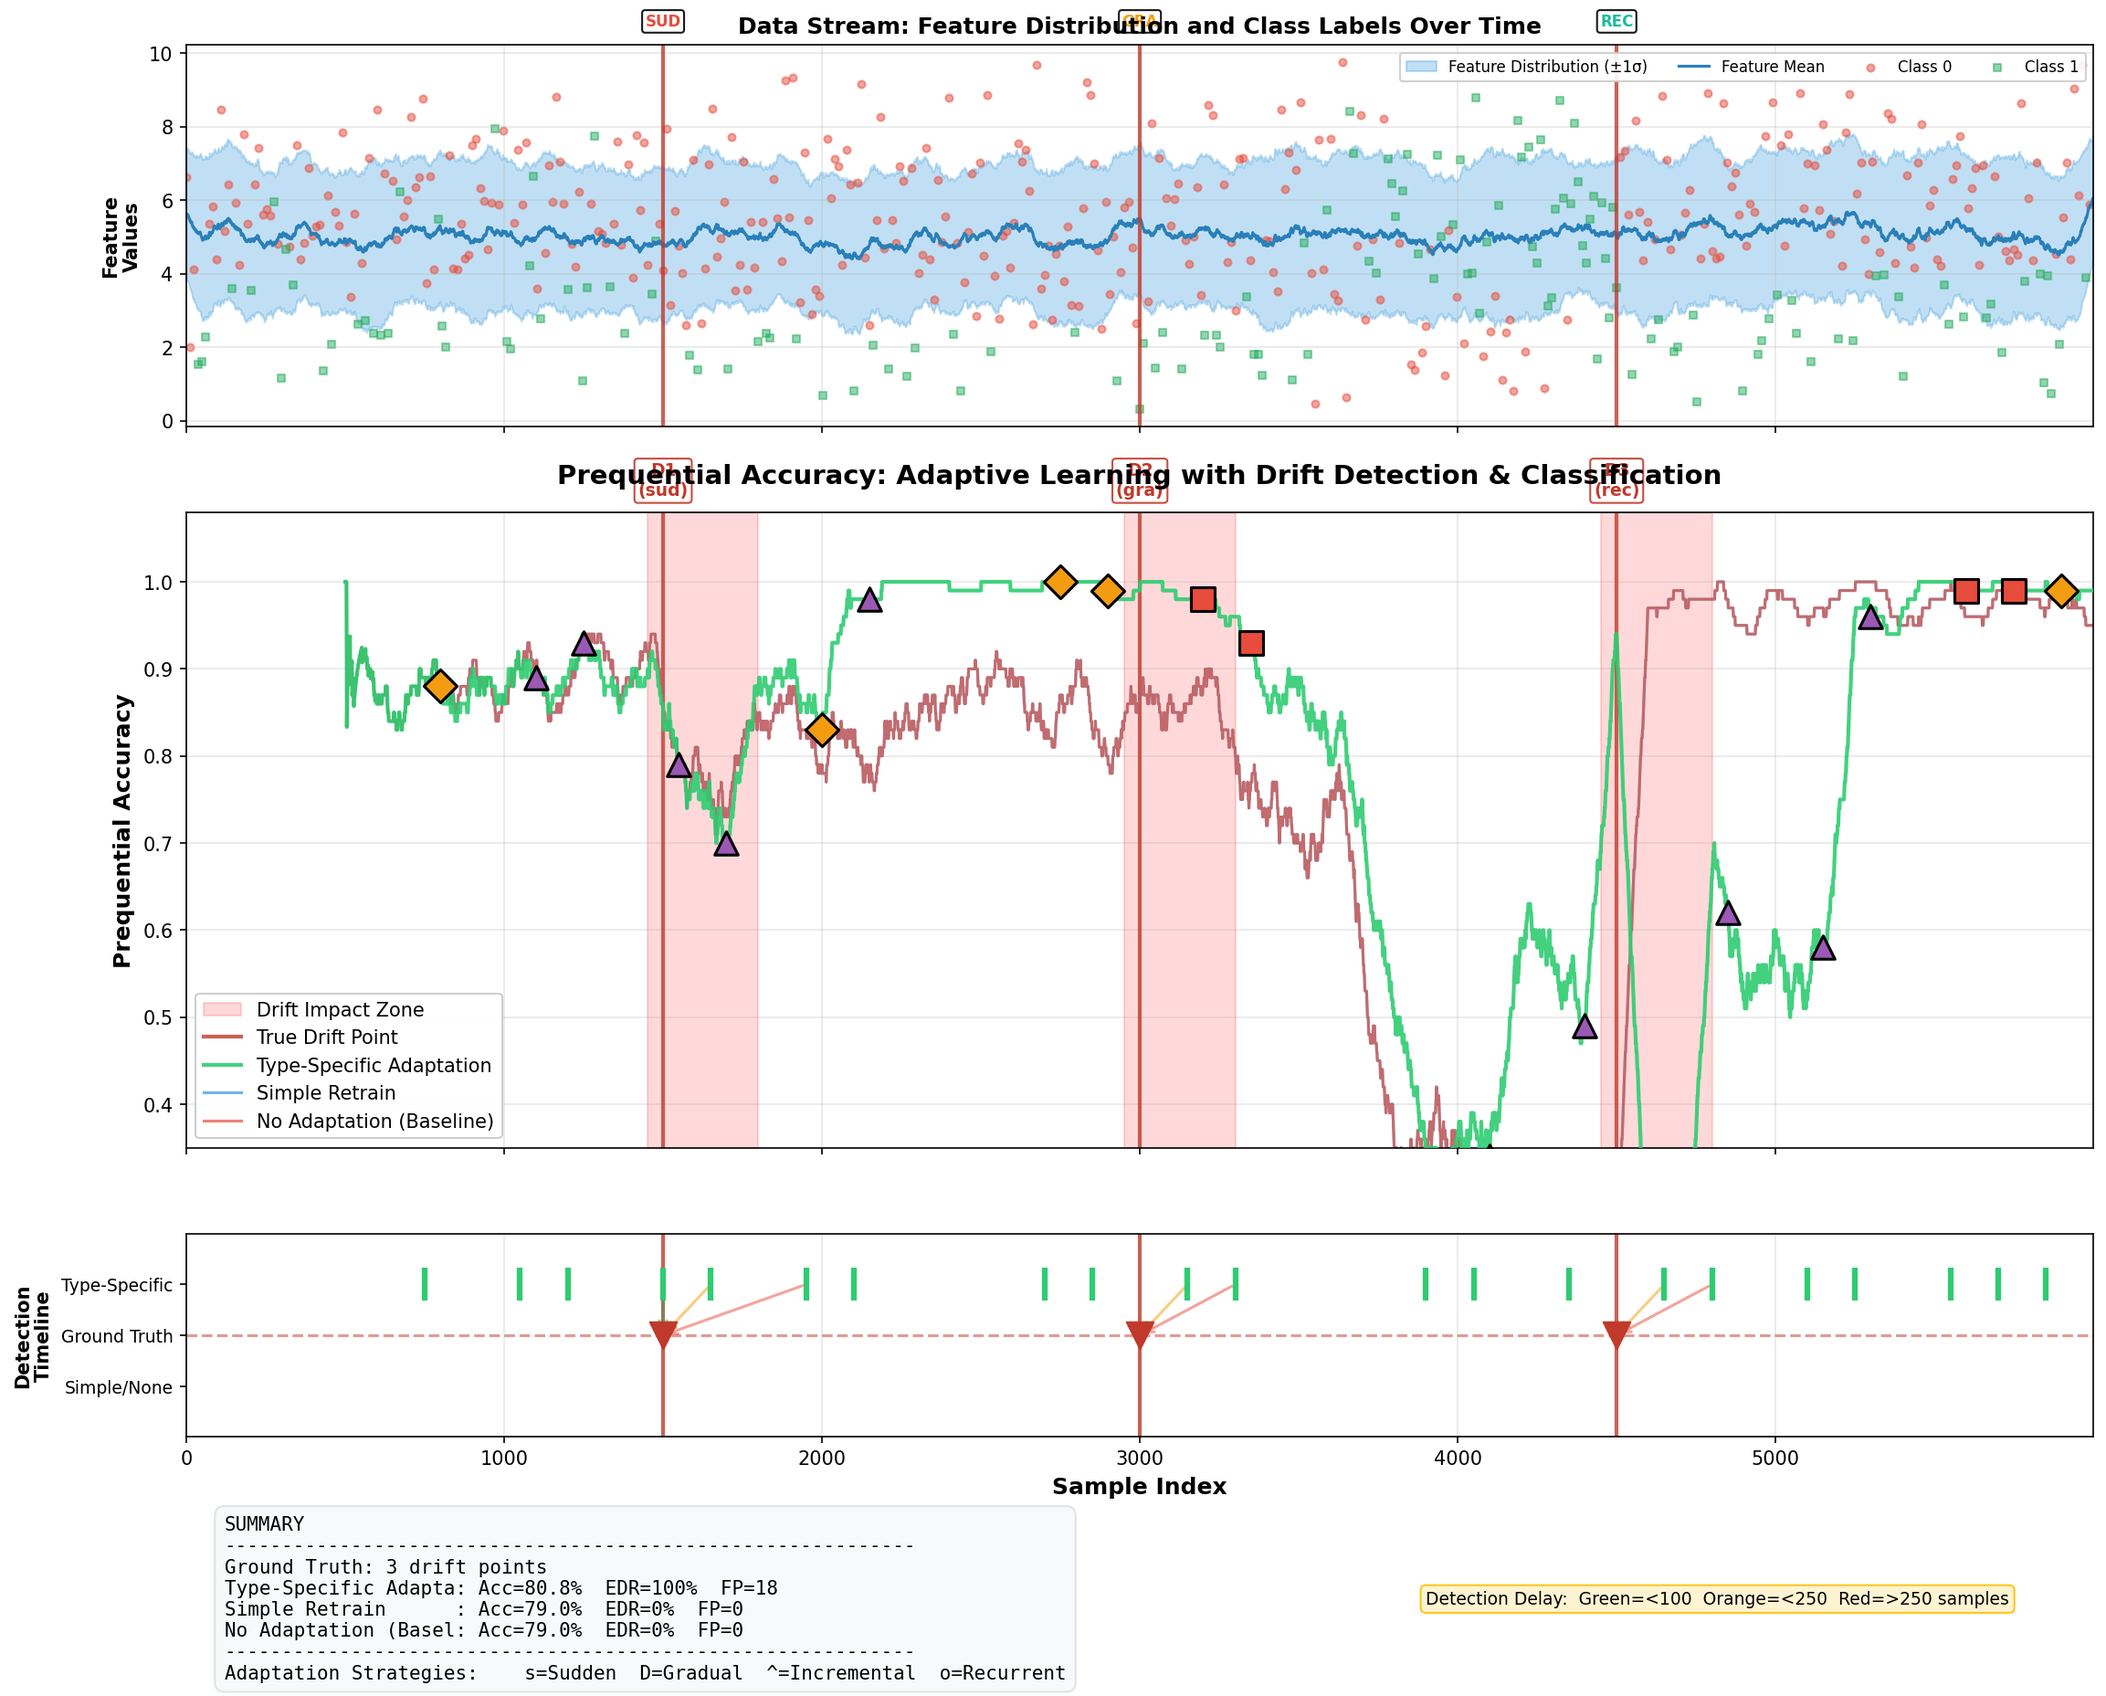
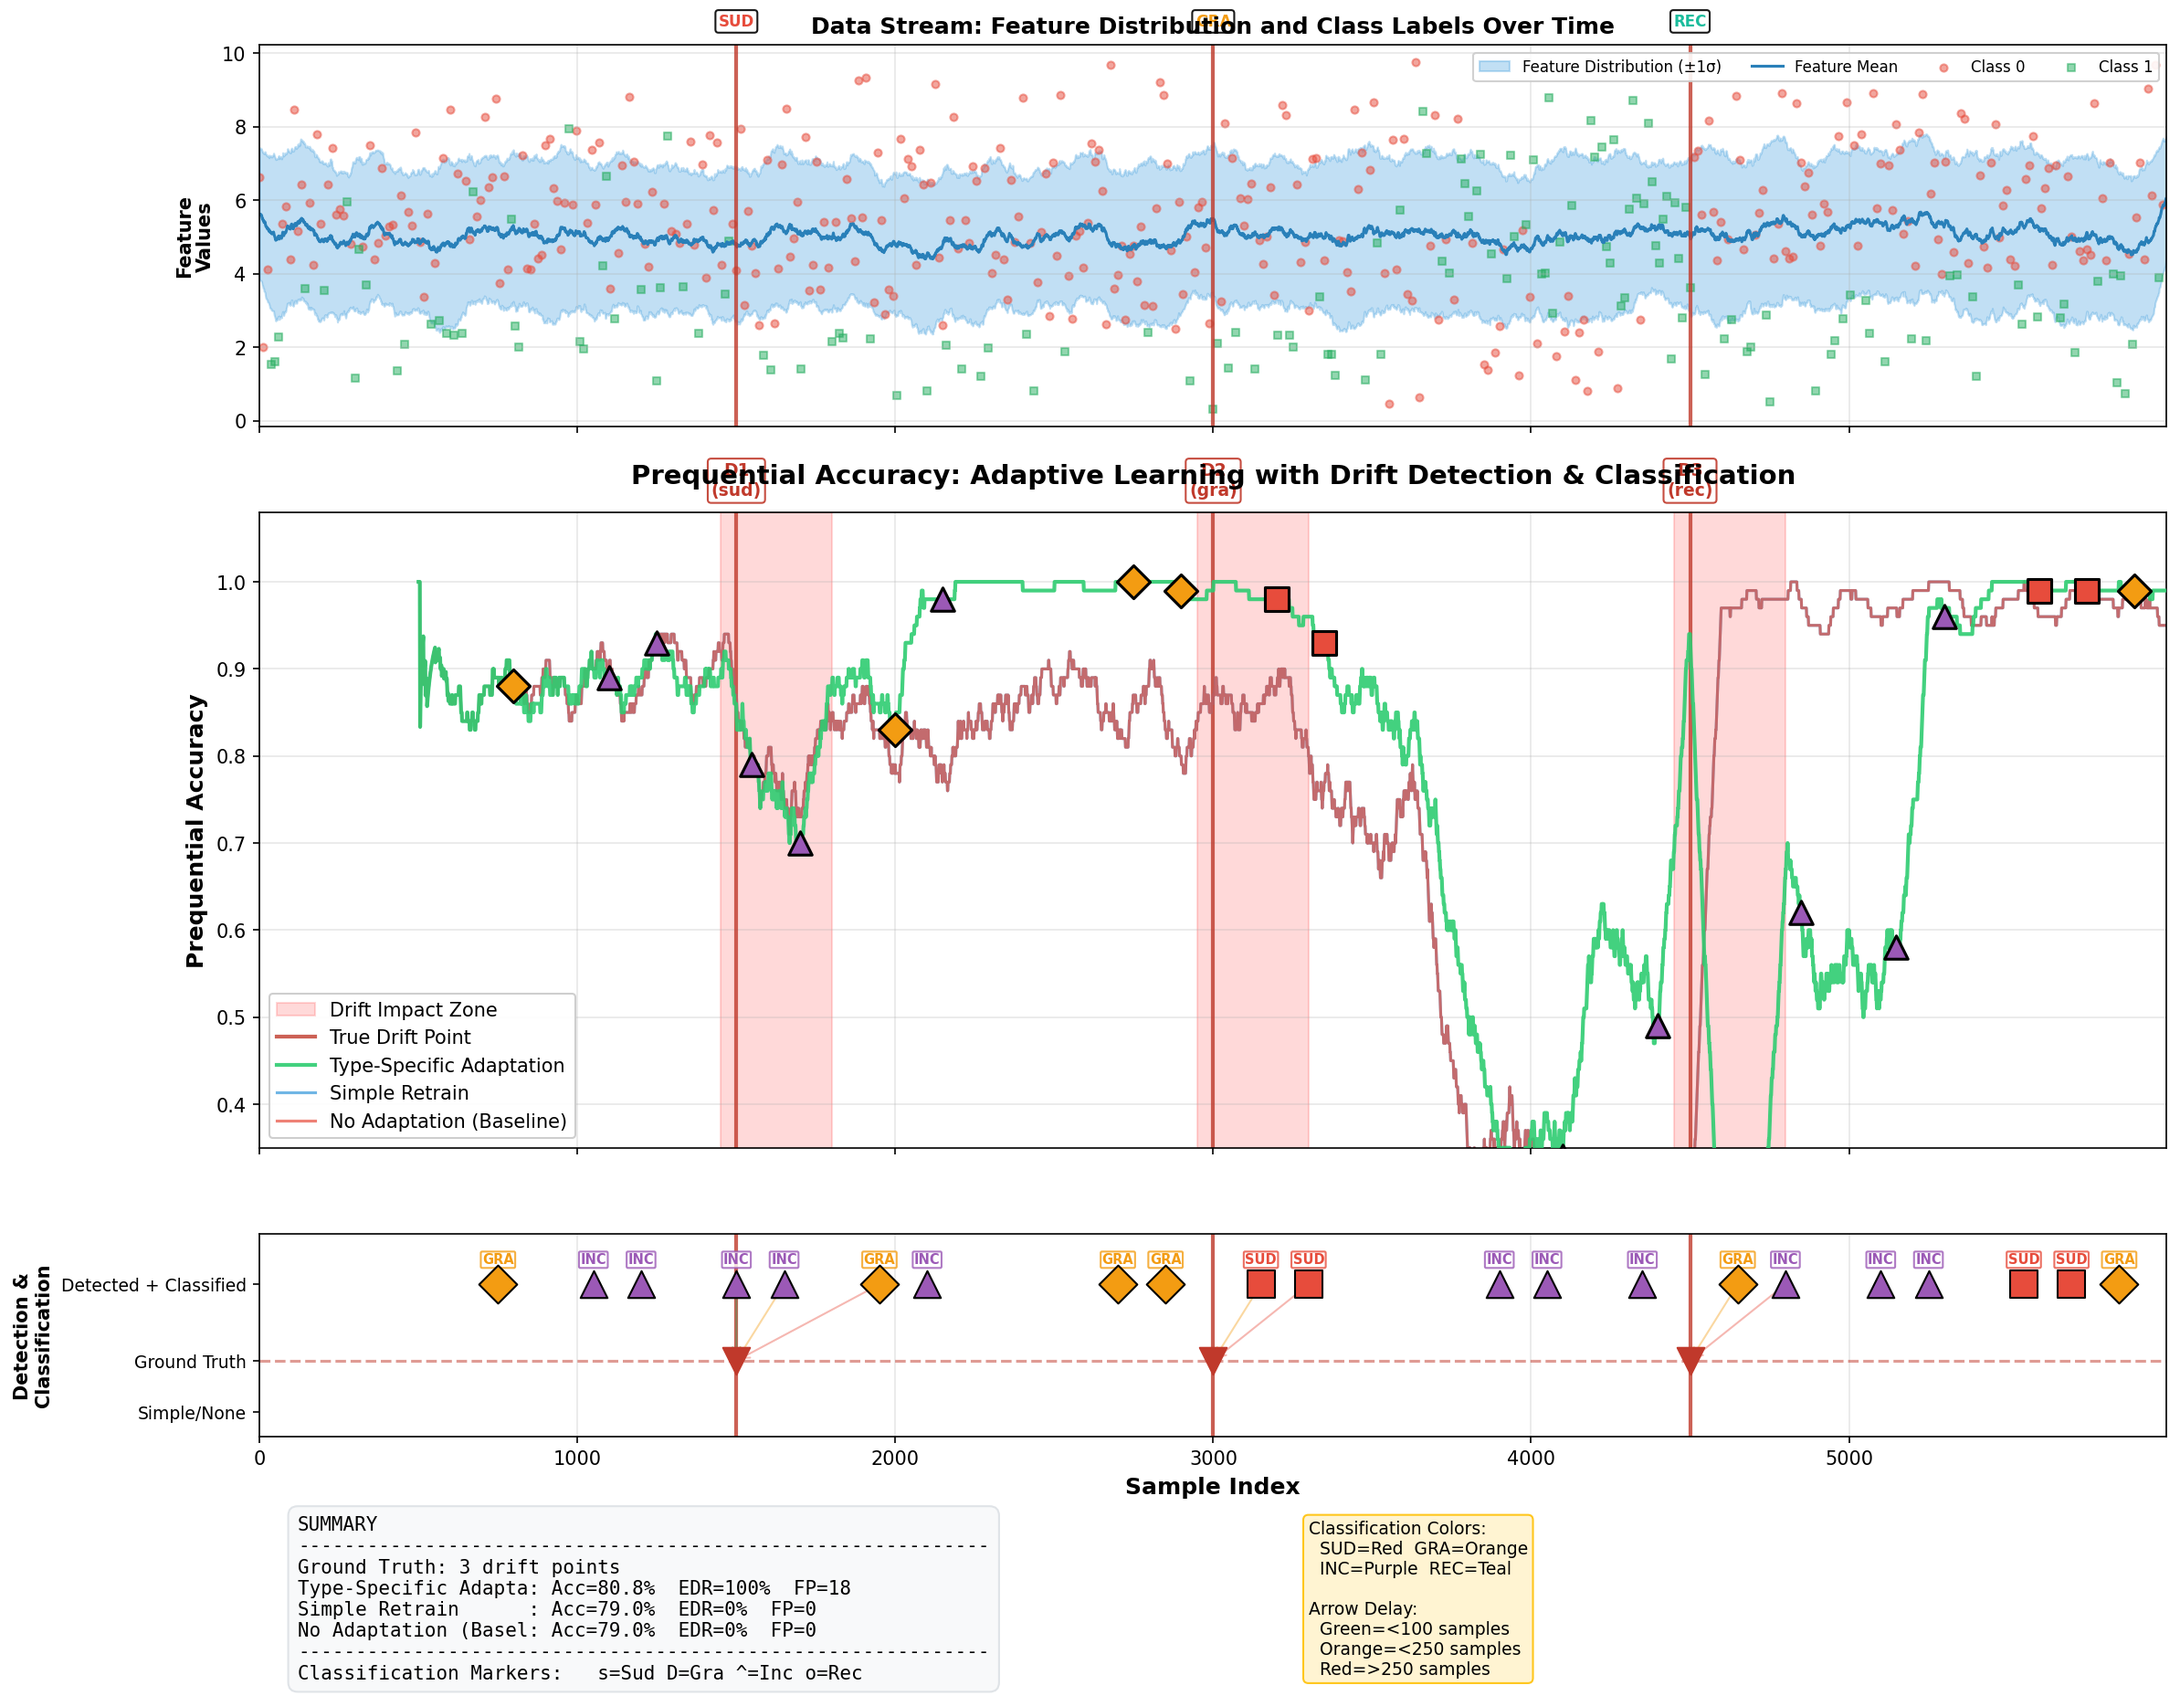
Add classification type

diff --git a/experiments/drift_monitoring_system/evaluate_prequential.py b/experiments/drift_monitoring_system/evaluate_prequential.py
@@ -77,7 +77,16 @@ except ImportError:
     # Fallback if shared module not available
     def calculate_detection_metrics(detections, ground_truth, tolerance=250, early_tolerance=50):
         """Fallback implementation."""
-        det_pos = [d if isinstance(d, int) else d['pos'] for d in detections] if detections else []
+        # Handle both old format (int) and new format (dict with 'idx')
+        det_pos = []
+        for d in (detections if detections else []):
+            if isinstance(d, int):
+                det_pos.append(d)
+            elif isinstance(d, dict):
+                det_pos.append(d.get('idx', d.get('pos', 0)))
+            else:
+                det_pos.append(d)
+        
         gt_pos = ground_truth if ground_truth else []
         tp, fp, delays = 0, 0, []
         detected = set()
@@ -223,12 +232,18 @@ def evaluate_with_adaptation(X, y, drift_points, mode: str = AdaptationMode.TYPE
                     
                     if result.is_drift:
                         drift_detected = True
-                        drift_detections.append(idx)
                         classification_times.append(result.classification_time)
                         
                         # Use classified drift type immediately
                         detected_drift_type = result.subcategory
                         print(f"    [{mode}] Drift detected at sample {idx} (Score={result.score:.4f}, Type={detected_drift_type})")
+                        
+                        # Store BOTH detection position AND classified type
+                        drift_detections.append({
+                            'idx': idx,
+                            'score': result.score,
+                            'classified_type': detected_drift_type
+                        })
                         
                         # Store result for adaptation step logic
                         current_drift_type = detected_drift_type
@@ -497,9 +512,27 @@ def plot_prequential_comparison(results: Dict[str, Dict], drift_points: List[int
     
     # Plot detections for each mode
     y_positions = {
-        AdaptationMode.TYPE_SPECIFIC: 1,
+        AdaptationMode.TYPE_SPECIFIC: 1.5,
         AdaptationMode.SIMPLE: 0,
         AdaptationMode.NONE: -1
+    }
+    
+    # Classification type colors and markers for detected drifts
+    classify_colors = {
+        'Sudden': '#e74c3c',      # Red
+        'Gradual': '#f39c12',     # Orange
+        'Incremental': '#9b59b6', # Purple
+        'Recurrent': '#1abc9c',   # Teal
+        'TCD': '#3498db',         # Blue (generic)
+        'PCD': '#27ae60',         # Green (generic)
+    }
+    classify_markers = {
+        'Sudden': 's',        # Square
+        'Gradual': 'D',       # Diamond
+        'Incremental': '^',   # Triangle up
+        'Recurrent': 'o',     # Circle
+        'TCD': 'P',           # Plus (filled)
+        'PCD': 'X',           # X (filled)
     }
     
     for mode, data in results.items():
@@ -508,29 +541,50 @@ def plot_prequential_comparison(results: Dict[str, Dict], drift_points: List[int
         color = mode_colors.get(mode, 'gray')
         
         if detections:
-            ax_det.scatter(detections, [y_pos] * len(detections), 
-                          marker='|', color=color, s=300, linewidth=3,
-                          label=f'{mode_labels.get(mode, mode)} detections',
-                          zorder=4)
-            
-            # Draw arrows from detection to ground truth (for Type-Specific)
-            if mode == AdaptationMode.TYPE_SPECIFIC:
-                for det_idx in detections:
-                    # Find closest ground truth
-                    closest_gt = min(drift_points, key=lambda x: abs(x - det_idx))
-                    delay = det_idx - closest_gt
-                    if -100 < delay < 500:  # Reasonable detection window
-                        # Color based on delay
-                        arrow_color = '#27ae60' if delay < 100 else '#f39c12' if delay < 250 else '#e74c3c'
-                        ax_det.annotate('', xy=(closest_gt, 0), xytext=(det_idx, y_pos),
-                                       arrowprops=dict(arrowstyle='->', color=arrow_color, 
-                                                       alpha=0.5, lw=1.5))
+            # Handle both old format (int) and new format (dict)
+            for i, det in enumerate(detections):
+                if isinstance(det, dict):
+                    det_idx = det.get('idx', 0)
+                    classified_type = det.get('classified_type', 'Unknown')
+                else:
+                    det_idx = det
+                    classified_type = 'Unknown'
+                
+                # For Type-Specific mode, show classification with colored markers
+                if mode == AdaptationMode.TYPE_SPECIFIC:
+                    marker = classify_markers.get(classified_type, 'o')
+                    m_color = classify_colors.get(classified_type, color)
+                    ax_det.scatter(det_idx, y_pos, marker=marker, color=m_color, 
+                                  s=200, zorder=5, edgecolors='black', linewidth=1,
+                                  label=f'{classified_type}' if i == 0 else '_nolegend_')
+                    
+                    # Add text label above marker
+                    label_text = classified_type[:3].upper()
+                    ax_det.annotate(label_text, xy=(det_idx, y_pos + 0.35), 
+                                   ha='center', va='bottom', fontsize=7, fontweight='bold',
+                                   color=m_color,
+                                   bbox=dict(boxstyle='round,pad=0.1', facecolor='white', 
+                                             edgecolor=m_color, alpha=0.8))
+                    
+                    # Draw arrow to closest ground truth
+                    if drift_points:
+                        closest_gt = min(drift_points, key=lambda x: abs(x - det_idx))
+                        delay = det_idx - closest_gt
+                        if -100 < delay < 500:
+                            arrow_color = '#27ae60' if delay < 100 else '#f39c12' if delay < 250 else '#e74c3c'
+                            ax_det.annotate('', xy=(closest_gt, 0), xytext=(det_idx, y_pos),
+                                           arrowprops=dict(arrowstyle='->', color=arrow_color, 
+                                                           alpha=0.4, lw=1))
+                else:
+                    # Simple marker for other modes
+                    ax_det.scatter(det_idx, y_pos, marker='|', color=color, 
+                                  s=200, linewidth=2, zorder=4)
     
-    ax_det.set_ylim([-2, 2])
-    ax_det.set_yticks([1, 0, -1])
-    ax_det.set_yticklabels(['Type-Specific', 'Ground Truth', 'Simple/None'], fontsize=9)
+    ax_det.set_ylim([-1.5, 2.5])
+    ax_det.set_yticks([1.5, 0, -1])
+    ax_det.set_yticklabels(['Detected + Classified', 'Ground Truth', 'Simple/None'], fontsize=9)
     ax_det.set_xlabel('Sample Index', fontsize=12, fontweight='bold')
-    ax_det.set_ylabel('Detection\nTimeline', fontsize=10, fontweight='bold')
+    ax_det.set_ylabel('Detection &\nClassification', fontsize=10, fontweight='bold')
     ax_det.grid(True, alpha=0.3, axis='x')
     ax_det.axhline(y=0, color='#c0392b', linestyle='--', alpha=0.5)
     
@@ -556,11 +610,11 @@ def plot_prequential_comparison(results: Dict[str, Dict], drift_points: List[int
     
     summary_lines.append("-" * 60)
     
-    # Strategy legend
-    strategy_legend = "Adaptation Strategies:  "
-    for strat, marker in [('sudden', 's'), ('gradual', 'D'), ('incremental', '^'), ('recurrent', 'o')]:
-        strategy_legend += f"  {marker}={strat.title()}"
-    summary_lines.append(strategy_legend)
+    # Classification legend
+    classify_legend = "Classification Markers:  "
+    for ctype, marker in [('Sudden', 's'), ('Gradual', 'D'), ('Incremental', '^'), ('Recurrent', 'o')]:
+        classify_legend += f" {marker}={ctype[:3]}"
+    summary_lines.append(classify_legend)
     
     summary_text = "\n".join(summary_lines)
     
@@ -569,9 +623,15 @@ def plot_prequential_comparison(results: Dict[str, Dict], drift_points: List[int
                     bbox=dict(boxstyle='round,pad=0.5', facecolor='#f8f9fa', 
                               edgecolor='#dee2e6', alpha=0.95))
     
-    # Add color legend for arrows
-    arrow_legend = "Detection Delay:  Green=<100  Orange=<250  Red=>250 samples"
-    ax_summary.text(0.65, 0.5, arrow_legend, transform=ax_summary.transAxes,
+    # Add color legend for classification and arrows
+    color_legend = ("Classification Colors:\n"
+                    "  SUD=Red  GRA=Orange\n"
+                    "  INC=Purple  REC=Teal\n\n"
+                    "Arrow Delay:\n"
+                    "  Green=<100 samples\n"
+                    "  Orange=<250 samples\n"
+                    "  Red=>250 samples")
+    ax_summary.text(0.55, 0.5, color_legend, transform=ax_summary.transAxes,
                     fontsize=9, verticalalignment='center',
                     bbox=dict(boxstyle='round,pad=0.3', facecolor='#fff3cd', 
                               edgecolor='#ffc107', alpha=0.9))

diff --git a/experiments/shared/detection_metrics.py b/experiments/shared/detection_metrics.py
@@ -61,7 +61,16 @@ def calculate_detection_metrics(
         if not items:
             return []
         if isinstance(items[0], dict):
-            return sorted([item['pos'] for item in items])
+            # Support both 'pos' and 'idx' keys
+            positions = []
+            for item in items:
+                if 'pos' in item:
+                    positions.append(item['pos'])
+                elif 'idx' in item:
+                    positions.append(item['idx'])
+                else:
+                    raise KeyError(f"Dict item must have 'pos' or 'idx' key, got: {item.keys()}")
+            return sorted(positions)
         return sorted(items)
     
     det_positions = get_positions(detections)
